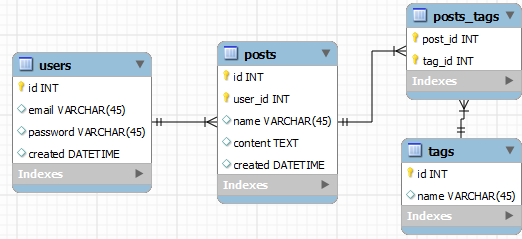
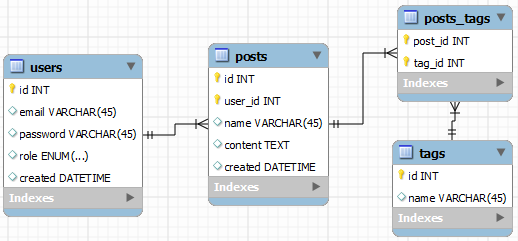
random content on load
* on load random content is loaded into the tabs
* fixed h2 css
* updated ERD diagram to take into account user.role

Changed region(s): [[0.0, 0.0, 1.0, 0.9958]]

diff --git a/css/main.css b/css/main.css
@@ -34,6 +34,7 @@
 .tweet{ line-height:44px }
 .show-text{ cursor: pointer; }
 .tabbable{ min-height: 500px; }
+.well h2{display:inline-block;}
 
 @media only screen and (min-width: 1300px) { .container { margin-right: auto; } }
 

diff --git a/index.php b/index.php
@@ -198,6 +198,14 @@ $firstFramework = array_shift(array_keys($frameworks));
         <script>
         $(document).ready(function(){
             prettyPrint();
+            $("select").each(function(){
+                var rand = Math.floor(Math.random() * $(this).find('option').length)+1;
+                
+                var randId = $($(this).find('option')[rand]);
+                
+                $(randId).attr('selected', 'selected');
+                $(randId).tab('show');
+            });  
             $(".chosen").data("placeholder","Pick up a scenario! What do I need to do.. ").chosen().change(function(e){
                 e.preventDefault();
                 var id = ($(this).find('option:selected'));
@@ -216,7 +224,12 @@ $firstFramework = array_shift(array_keys($frameworks));
                 $(".hide-me").toggle('slow');
             });
             $("h2").each(function(){
-                $(this).popover({animation: true, placement: 'left', trigger:'hover', delay:500});
+                $(this).popover({
+                    animation: true, 
+                    placement: 'left', 
+                    trigger:'hover', 
+                    delay:500
+                });
             });
         });
         </script>
